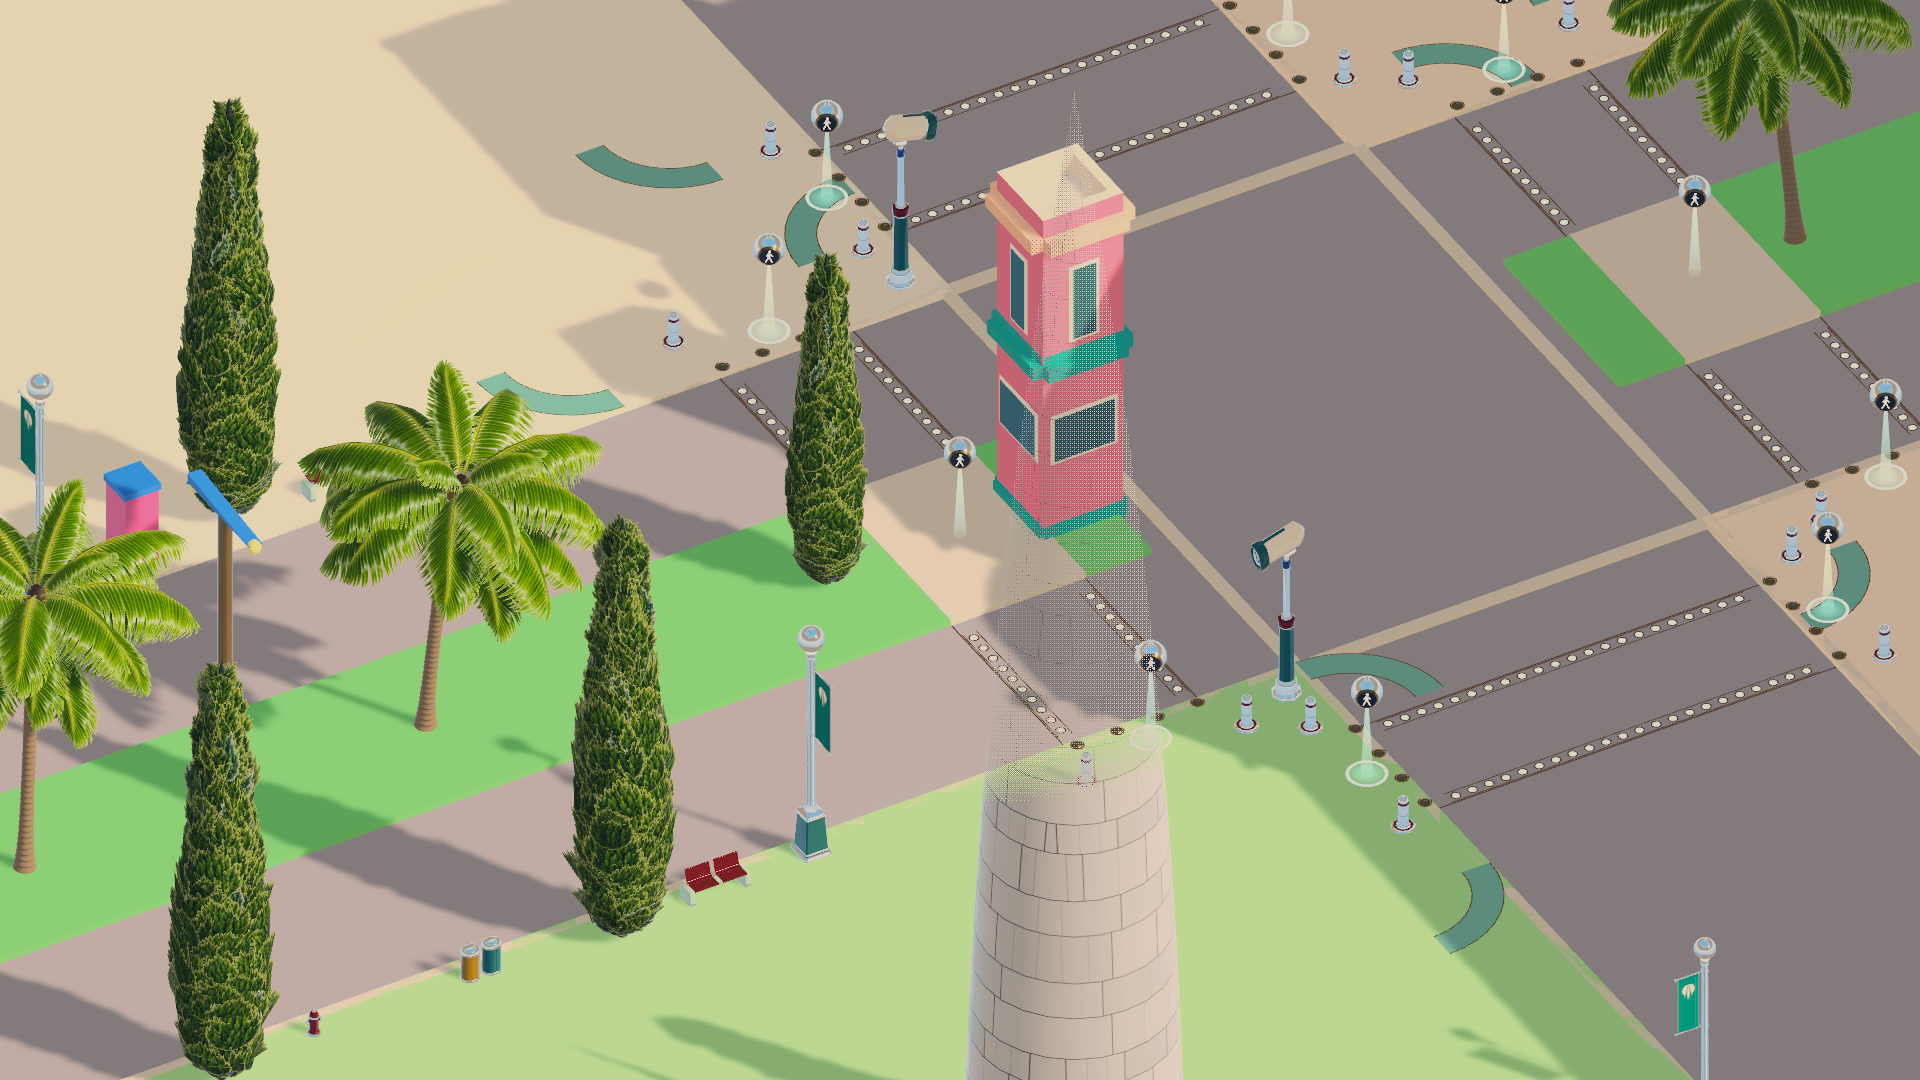
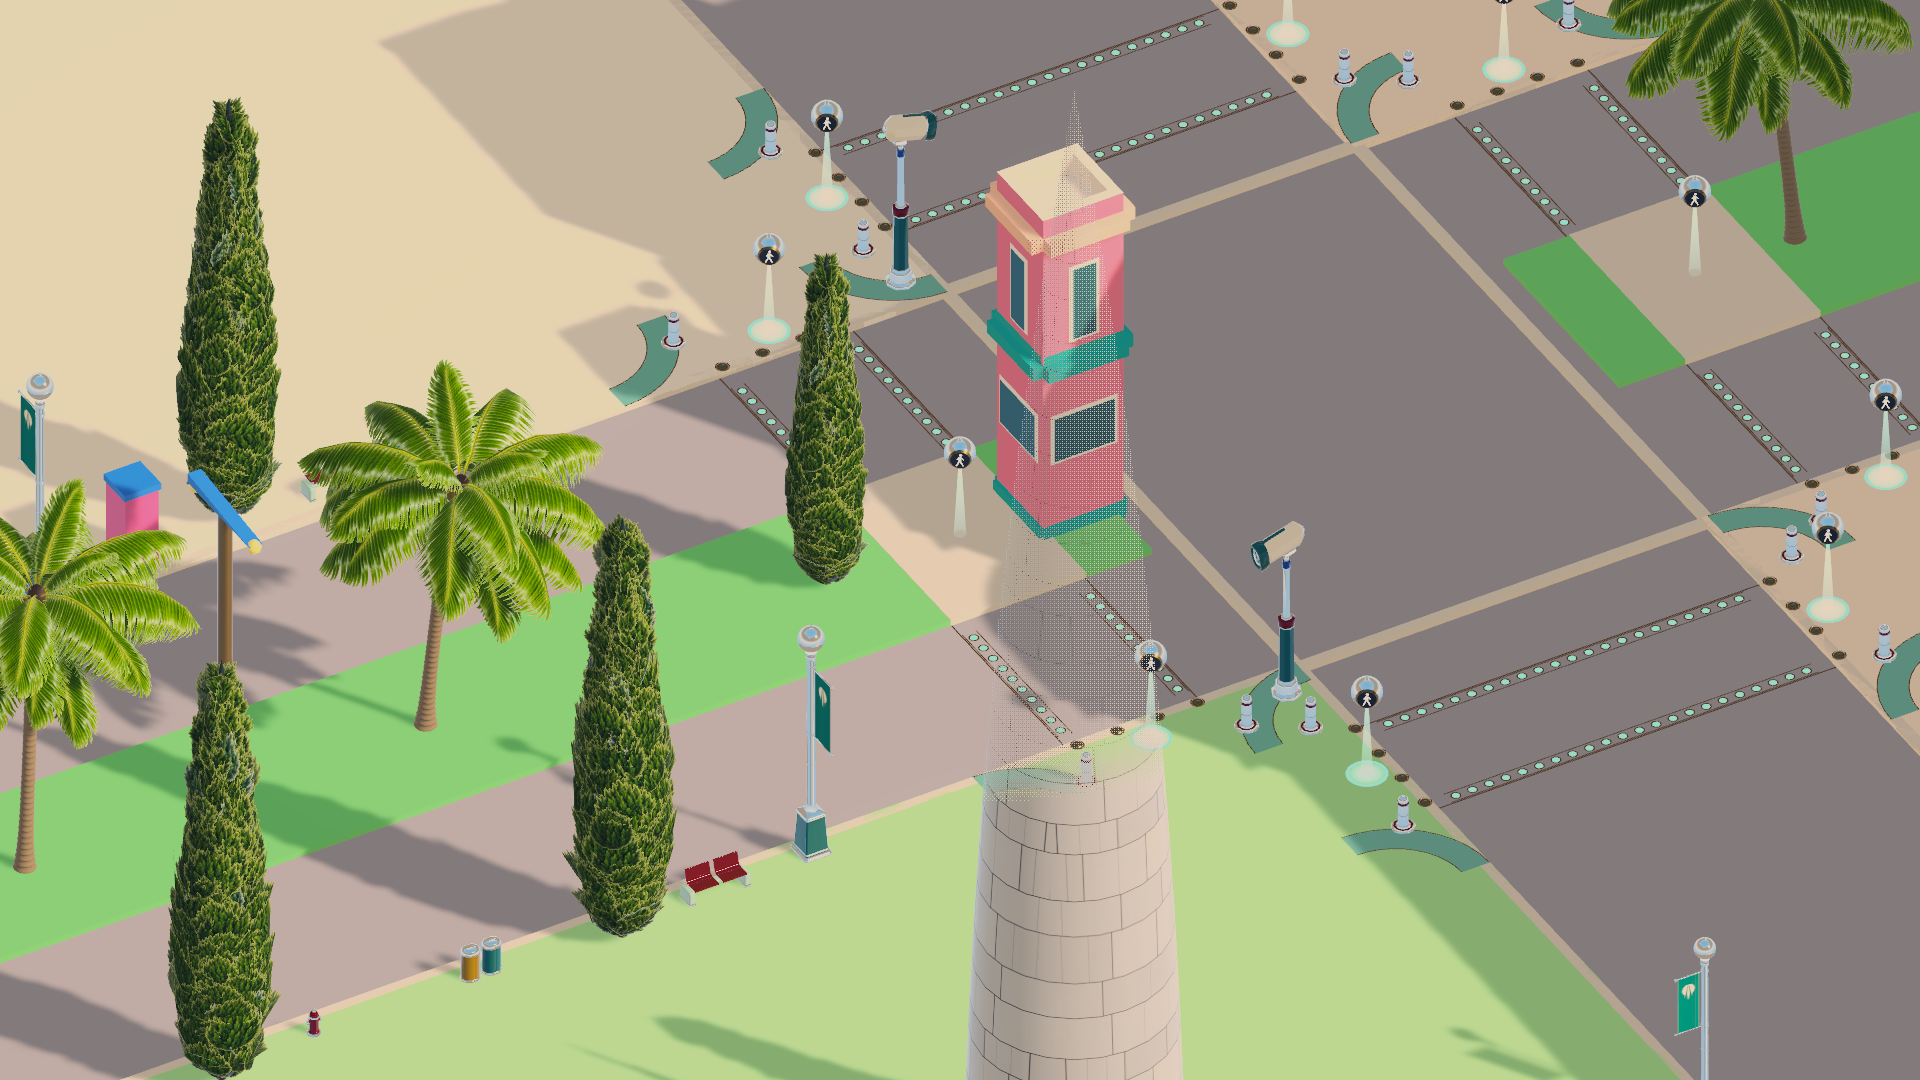
Unity: crossing dots glow seafoam, halo reads in shade, arcs confirmed (brief 009 C, Latch)
Crossing parts use an emission-only copy of DK_Cross_Light (seafoam x2,
black base) so sun plus HDR emission no longer clips to cream. Halo 2 -> 6.
Rebuilt from export 952370ef; shots reshot incl. the cafe crossing.

diff --git a/unity/Assets/Suborned/Editor/World/CrossingKit.cs b/unity/Assets/Suborned/Editor/World/CrossingKit.cs
@@ -16,11 +16,17 @@ namespace Suborned.World
     ///     are round) so a display faces the play camera (the export view's yaw): a display along the walk is edge-on to a camera
     ///     looking along the crossing (Vela, 009 A open issue 1). Both faces show the same aspect, so the nearer one is turned.
     /// The beam and halo are DecoKit kind `glow` (Materials/Glow, Shaders/CrossGlow: additive, double-sided, unlit); the lights and
-    /// figures are the kit's emissive materials. A refuge is drawn here: its median ring raised as an island, in its road's kerb
+    /// figures are the kit's emissive materials, the seafoam light (Light) redrawn as emission only. A refuge is drawn here: its median ring raised as an island, in its road's kerb
     /// surface, in the ground layer's kerb batch that already reaches it (Combine.Fit), so it costs no renderer of its own.</summary>
     public sealed class CrossingKit
     {
         const string Ground = "ground"; // the batch layer refuges go into, with the kerbs
+        /// <summary>The kit's seafoam light (dots, bars, the eye's lens and halo ring) and the factor its linear base colour is emitted at.
+        /// The kit row (DK_Cross_Light) is lit seafoam plus a pale HDR emission (r/g 0.63 against the colour's 0.36): in sun the two sum
+        /// past the Neutral tonemap's shoulder, the channels flatten and the warm grade filter leaves the dots cream-white (009 C:
+        /// (224, 211, 191) at the kerb shot). Drawn instead as emission only (base black, no specular or reflections), seafoam x 2.0
+        /// linear: green 0.92, under the bloom threshold, reads (154, 219, 198) in the same shot; 2.5 and 3 already pale toward white.</summary>
+        public const string Light = "DK_Cross_Light"; const float LightGlow = 2.0f;
         public const string Body = "DK_SignalEye", Walk = "DK_SignalEye_Walk", Stop = "DK_SignalEye_Stop", Beam = "DK_SignalEye_Beam", Halo = "DK_SignalEye_Halo";
         static readonly HashSet<string> Kinds = new() { "crossing-dots", "crossing-bar", "crossing-edge", "crossing-stud", "crossing-arc", "signal-orb" };
 
@@ -73,7 +79,9 @@ namespace Suborned.World
             // the play camera's heading (Unity: Euler(pitch, yaw, 0) looks along (sin yaw, 0, cos yaw)); a display faces back up it
             float yaw = w.View.Yaw * Mathf.Deg2Rad;
             var toCamera = -new Vector3(Mathf.Sin(yaw), 0f, Mathf.Cos(yaw));
-            int parts = 0, eyes = 0, walk = 0, casters = 0, quiet = 0; float turned = 0f;
+            int parts = 0, eyes = 0, walk = 0, casters = 0, quiet = 0, lit = 0; float turned = 0f;
+            var kitLight = KitImport.Library(Light) ?? throw new InvalidDataException($"World: kit material {Light} missing (run `bun run kit`)");
+            var light = Lens(kitLight);
             var byKind = new SortedDictionary<string, int>(System.StringComparer.Ordinal);
             foreach (var s in w.Street)
             {
@@ -104,6 +112,9 @@ namespace Suborned.World
                     r.shadowCastingMode = body && s.CastShadows ? ShadowCastingMode.On : ShadowCastingMode.Off;
                     if (r.shadowCastingMode == ShadowCastingMode.On) casters++; else quiet++;
                     if (glow) { r.receiveShadows = false; r.lightProbeUsage = LightProbeUsage.Off; r.reflectionProbeUsage = ReflectionProbeUsage.Off; }
+                    var ms = r.sharedMaterials; bool swap = false;
+                    for (int i = 0; i < ms.Length; i++) if (ms[i] == kitLight) { ms[i] = light; swap = true; }
+                    if (swap) { r.sharedMaterials = ms; lit++; }
                     PrefabUtility.RecordPrefabInstancePropertyModifications(r);
                     if (!eye) continue;
                     if (part == Walk || part == Stop)
@@ -122,7 +133,22 @@ namespace Suborned.World
             }
             var kinds = new List<string>(); foreach (var kv in byKind) kinds.Add($"{kv.Value} {kv.Key}");
             Debug.Log($"World: crossing parts {parts} ({string.Join(", ", kinds)}); eyes {eyes} ({walk} walk, {eyes - walk} stop), displays turned to the play camera (yaw {w.View.Yaw}°) by at most {turned:F0}°; " +
-                $"renderers casting {casters} (orb bodies, every LOD), not casting {quiet}");
+                $"renderers casting {casters} (orb bodies, every LOD), not casting {quiet}; seafoam light on {lit} renderers (emission only, x{LightGlow})");
+        }
+
+        /// <summary>The seafoam light drawn as emission only, from the kit row (its colour, shader and fade); saved beside the scene.</summary>
+        static Material Lens(Material kit)
+        {
+            var m = new Material(kit) { name = Light + "_Glow" };
+            var c = kit.GetColor("_BaseColor").linear * LightGlow;
+            m.SetColor("_BaseColor", Color.black);
+            m.SetColor("_EmissionColor", new Color(c.r, c.g, c.b, 1f)); m.EnableKeyword("_EMISSION");
+            m.SetFloat("_Smoothness", 0f); m.SetFloat("_SpecularHighlights", 0f); m.SetFloat("_EnvironmentReflections", 0f);
+            m.EnableKeyword("_SPECULARHIGHLIGHTS_OFF"); m.EnableKeyword("_ENVIRONMENTREFLECTIONS_OFF");
+            var path = Path.ChangeExtension(HarbourWorldBuilder.ScenePath, null) + "-crosslight.mat";
+            AssetDatabase.DeleteAsset(path);
+            AssetDatabase.CreateAsset(m, path);
+            return m;
         }
 
         static Vector2 Centre(Vector2[] ring)
